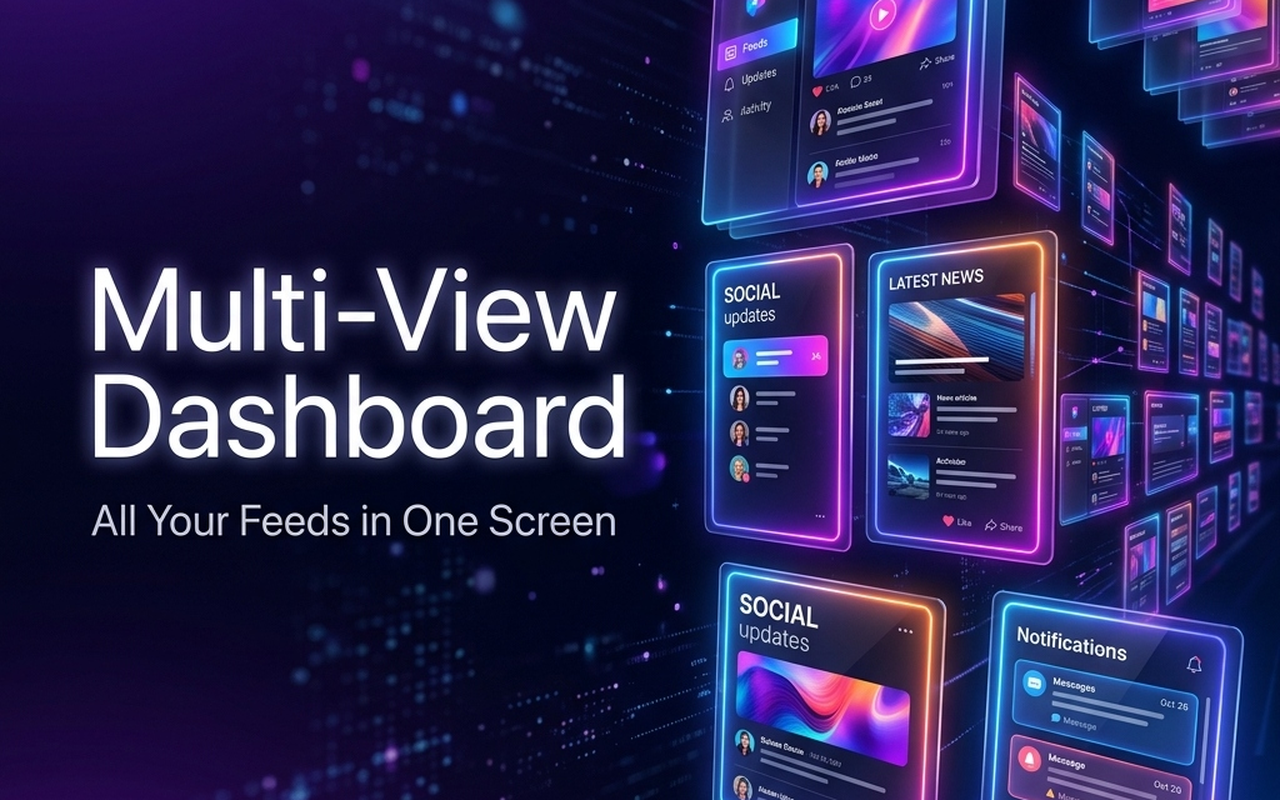
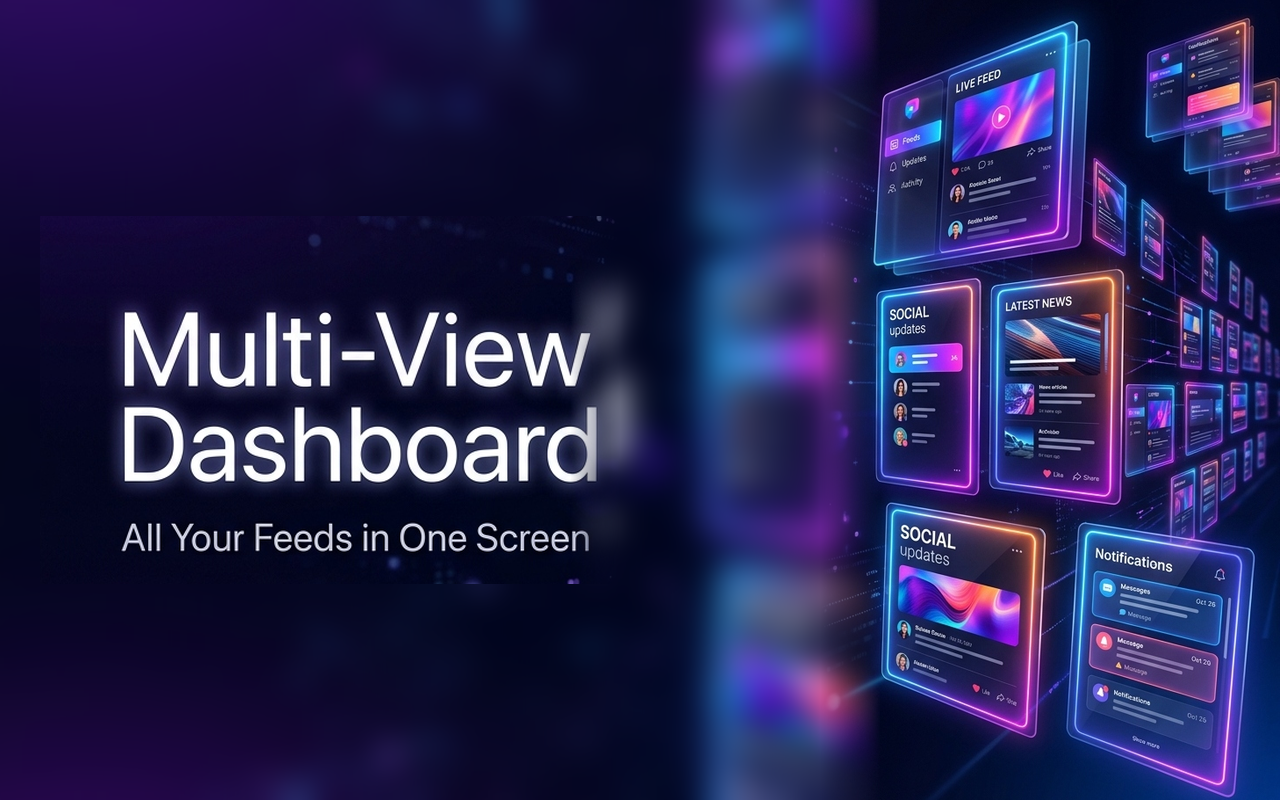
style: update Multi-View Dashboard promo marquee with content-aware responsive layout and link

diff --git a/multi-view-dashboard.html b/multi-view-dashboard.html
@@ -145,7 +145,7 @@
                         </ul>
                     </div>
 
-                    <a href="https://chromewebstore.google.com" target="_blank" rel="noopener noreferrer" class="group relative inline-flex items-center justify-center bg-cyber-text px-6 py-4 font-bold text-white overflow-hidden hover:text-black transition-all duration-300 uppercase shadow-sm mt-4">
+                    <a href="https://chromewebstore.google.com/detail/multi-view-dashboard/jmkhjcdcmejccfblfkhljjplbndnhhhh" target="_blank" rel="noopener noreferrer" class="group relative inline-flex items-center justify-center bg-cyber-text px-6 py-4 font-bold text-white overflow-hidden hover:text-black transition-all duration-300 uppercase shadow-sm mt-4">
                         <span class="absolute inset-0 bg-accent-cyan -translate-x-[100%] group-hover:translate-x-[0%] transition-transform duration-300 ease-in-out z-0"></span>
                         <div class="relative z-10 flex items-center gap-3">
                             <i data-lucide="download" class="w-5 h-5"></i>